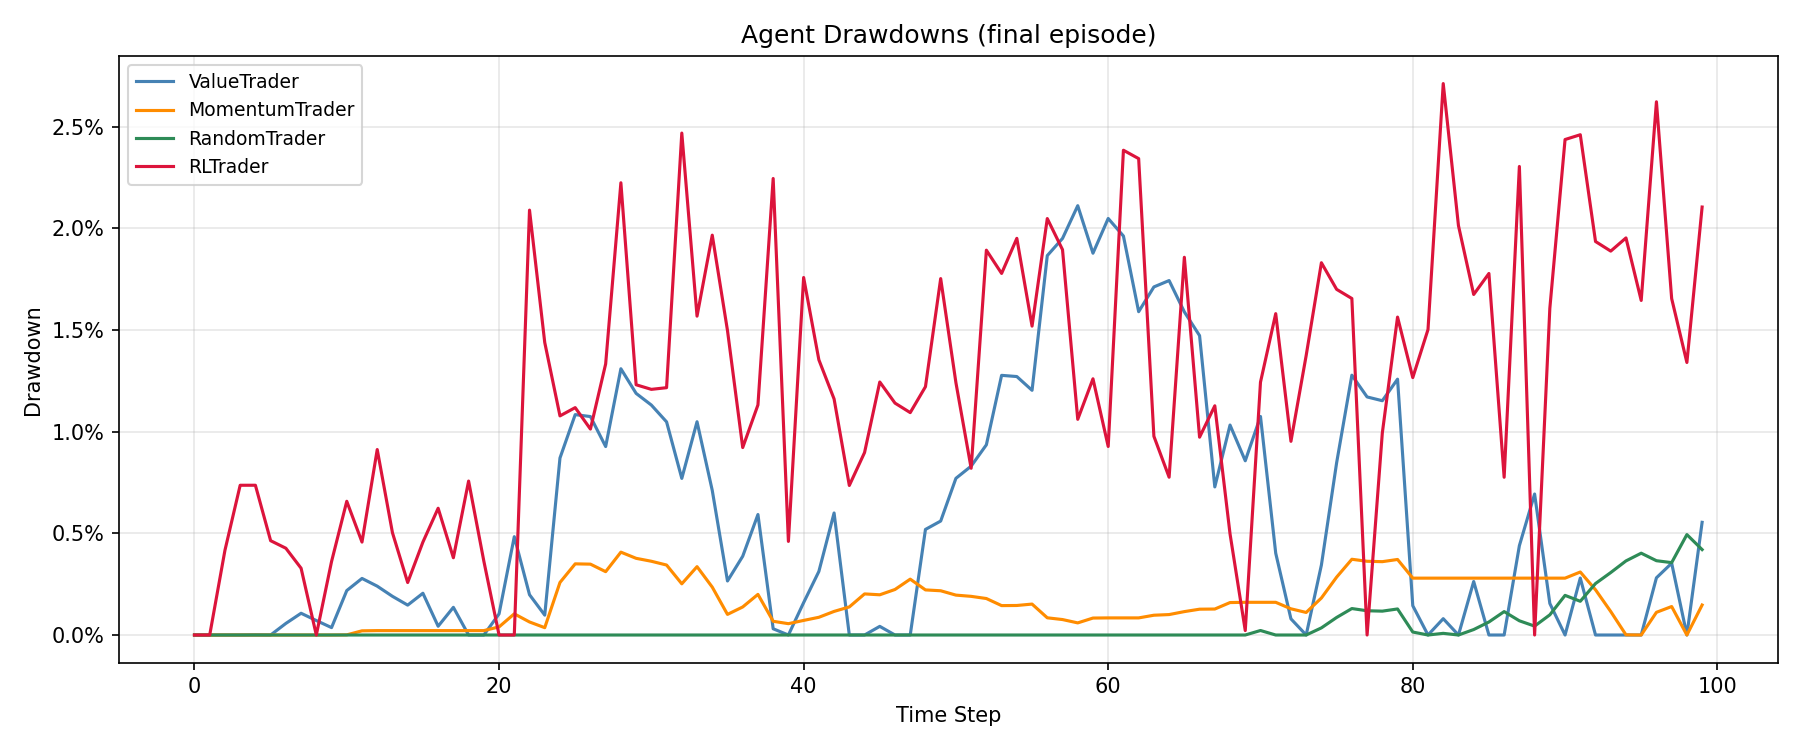
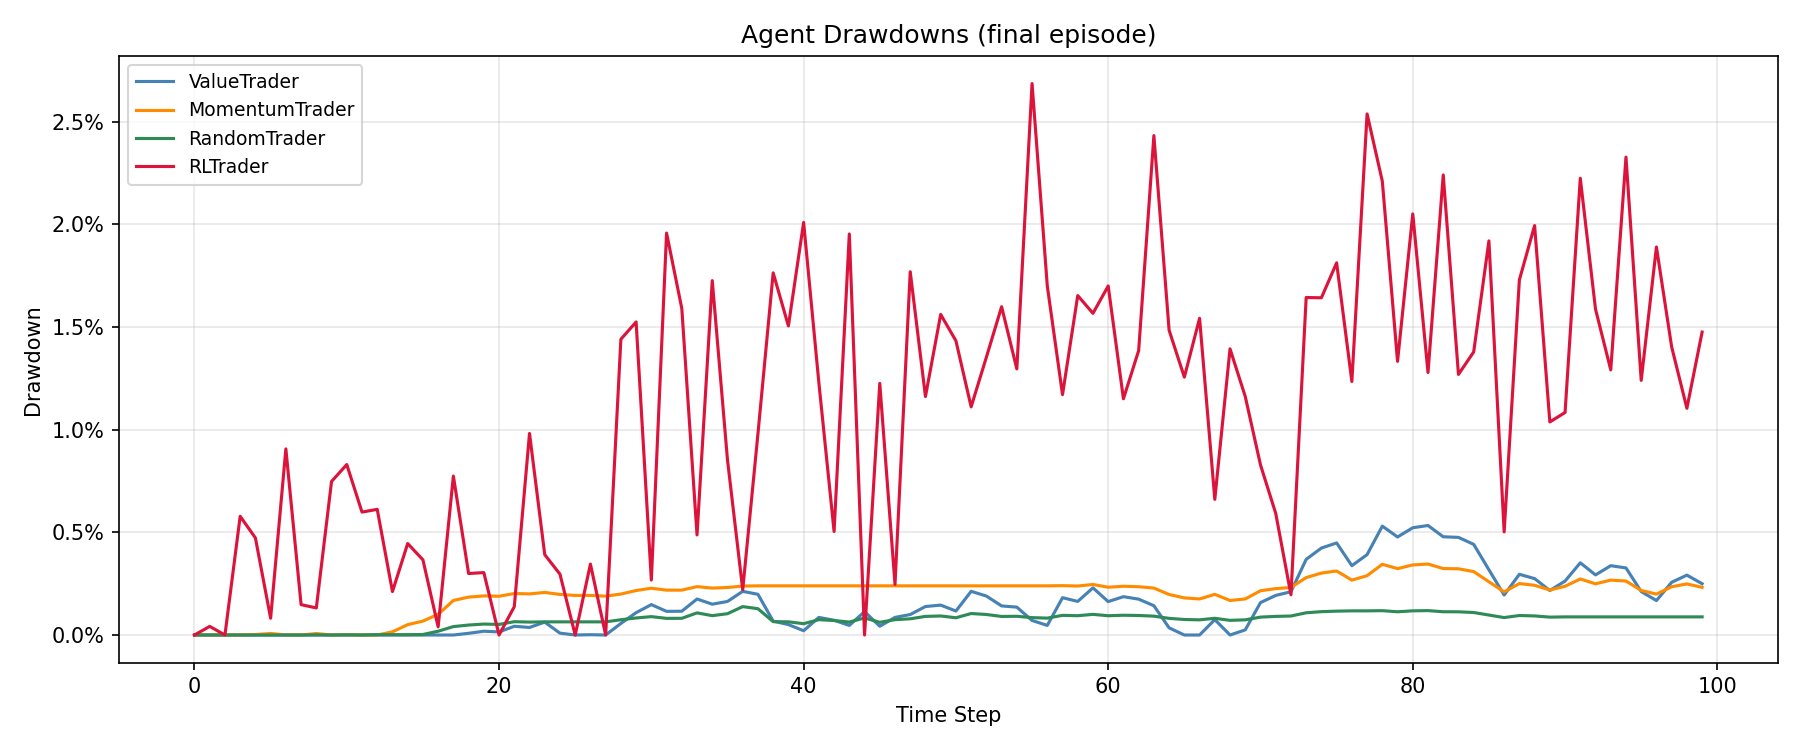
Add per-asset volatility targeting for more stable trading
Integrate per-asset volatility targeting into the broker logic, using an EMA of absolute returns to adjust futures overlays dynamically based on asset volatility.

Replit-Commit-Author: Agent
Replit-Commit-Session-Id: 3826bf3c-e3fd-4317-b321-61e418fea702
Replit-Commit-Checkpoint-Type: full_checkpoint
Replit-Commit-Event-Id: 1a72d2c9-6aba-46d9-8d1c-f5c59bb8a87c
Replit-Helium-Checkpoint-Created: true

diff --git a/project/broker/broker.py b/project/broker/broker.py
@@ -143,6 +143,12 @@ class SimulatedBroker(Broker):
         self.max_futures_notional   = 1.5   # total |futures| cap across assets
         self.max_asset_futures      = 0.40  # per-asset futures cap
 
+        # --- Per-asset volatility targeting --------------------------------
+        # EMA of absolute 1-step returns — feeds a per-asset scaling factor
+        # applied to the futures layer.  High-vol assets get smaller overlays.
+        self.asset_vol_ema   = {}   # asset → smoothed |return| estimate
+        self.asset_vol_alpha = 0.1  # EMA decay (slower than funding EMA)
+
     # ------------------------------------------------------------------
     # Standard order-book routing (used by non-RL agents)
     # ------------------------------------------------------------------
@@ -223,6 +229,21 @@ class SimulatedBroker(Broker):
 
             # Volatility scaling — applied to futures only
             fut_target *= vol_scaler
+
+            # --- Per-asset volatility targeting --------------------------
+            # Feeds the latest step return into the EMA, then computes a
+            # scaling factor: high-vol → smaller futures; low-vol → larger.
+            # vol_scale ∈ [0.5, 1.5], clamped to prevent extreme reactions.
+            _a_rets    = (simulation.asset_returns.get(a) or [0.0]) if simulation else [0.0]
+            _asset_ret = _a_rets[-1]
+            self.update_asset_volatility(a, _asset_ret)
+            _a_vol     = self.asset_vol_ema.get(a, 0.0)
+            _vol_scale = max(0.5, min(1.5, 1.0 / (1.0 + 5.0 * _a_vol)))
+            fut_target *= _vol_scale
+
+            # Log when per-asset vol scaling is significant
+            if _a_vol > 0.05:
+                print(f"[VolTarget] {a}: vol={_a_vol:.4f}  scale={_vol_scale:.3f}")
 
             # Panic de-risking — futures collapse first
             if panic_risk == 1:
@@ -312,6 +333,24 @@ class SimulatedBroker(Broker):
         # Keep agent.position (base class, SOL) in sync for display / featurize_state
         agent.position = agent.positions.get("SOL", 0.0)
         return total_cost
+
+    # ------------------------------------------------------------------
+    # Per-asset volatility helpers
+    # ------------------------------------------------------------------
+
+    def update_asset_volatility(self, asset, ret):
+        """
+        Update the EMA of absolute 1-step returns for `asset`.
+
+        `ret` should be the fractional price return for this step.
+        Initialises the EMA on the first call so there is no cold-start spike.
+        """
+        abs_ret = abs(ret)
+        if asset not in self.asset_vol_ema:
+            self.asset_vol_ema[asset] = abs_ret
+        else:
+            prev = self.asset_vol_ema[asset]
+            self.asset_vol_ema[asset] = prev + self.asset_vol_alpha * (abs_ret - prev)
 
     # ------------------------------------------------------------------
     # Portfolio exposure helpers
